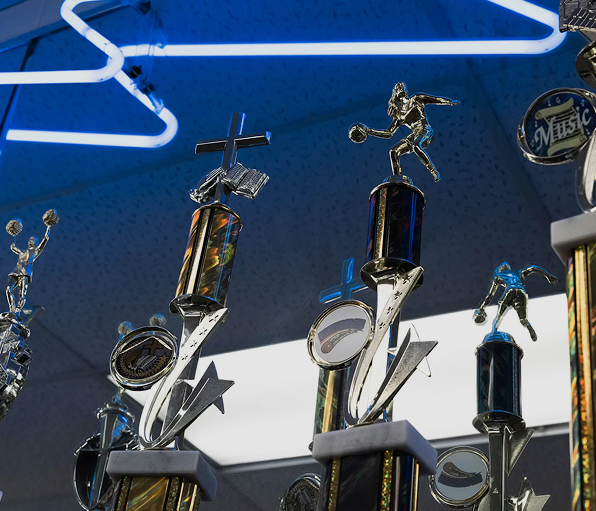
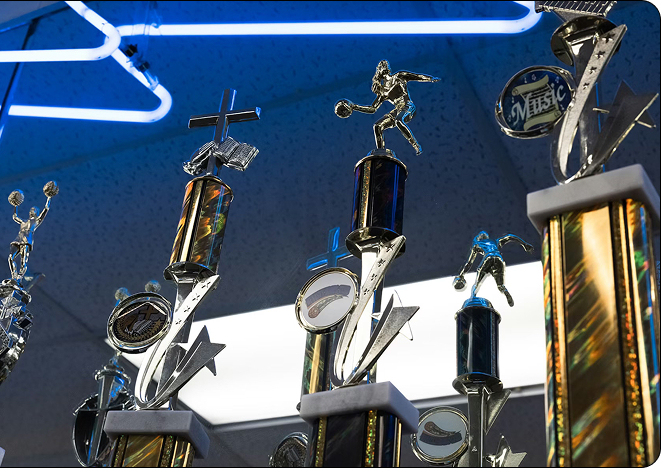
style: addded content4 style for company.css

diff --git a/web/company.html b/web/company.html
@@ -162,17 +162,17 @@
     <div class="content4">
         <div class="left"><img src="image/achievements.jpg" alt="Achievements Photo"></div>
         <div class="right">
-            <h3>Our Achievements</h3>
+            <h3>Achievements</h3>
 
             <div class="right-content">
                 <h2>Milestones That Shaped Our Journey</h2>
-                <p>2023</p>
+                <p class="year">2023</p>
                 <p>“Best Independent Label” at Asian Music Awards</p>
-                <p>2022</p>
+                <p class="year">2022</p>
                 <p>Nova Sky nominated for “Best New Artist” at Global Music Awards</p>
-                <p>2021</p>
+                <p class="year">2021</p>
                 <p>BAGAIMANA MUSIC featured in Rolling Stone Asia as one of “Top 10 Labels to Watch”</p>
-                <p>2020</p>
+                <p class="year">2020</p>
                 <p>25M+ streams for Echo Trio's debut album worldwide</p>
             </div>
         </div>

diff --git a/web/css/company.css b/web/css/company.css
@@ -149,3 +149,47 @@
   .team-card img {
     width: 100%;
   }
+
+  .content4 {
+    display: flex;
+    margin-bottom: 60px;
+  }
+
+  .left {
+    width: 45%;
+  }
+
+  .left img {
+    width: 100%;
+    height: 400px;
+    border-radius: 20px;
+  }
+
+  .right {
+    width: 55%;
+  }
+
+  .right h3 {
+    margin: 10px;
+    color: var(--primary-red);
+  }
+
+  .right-content h2 {
+    margin-top: 0px;
+  }
+
+  .right-content p {
+    margin-top: 0px;
+  }
+
+  .year {
+    font-weight: 600;
+    margin: 0px;
+  }
+
+  .right-content {
+    background-color: var(--dark);
+    color: var(--light);
+    padding: 30px;
+    border-radius: 20px;
+  }
